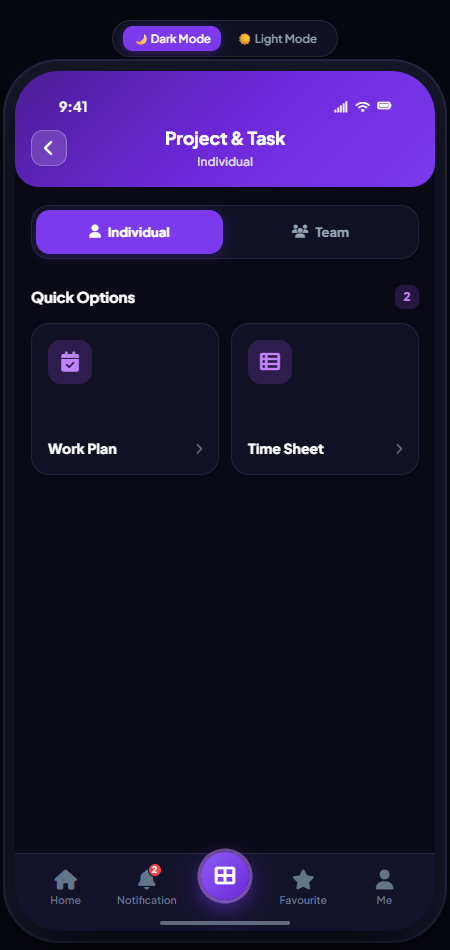
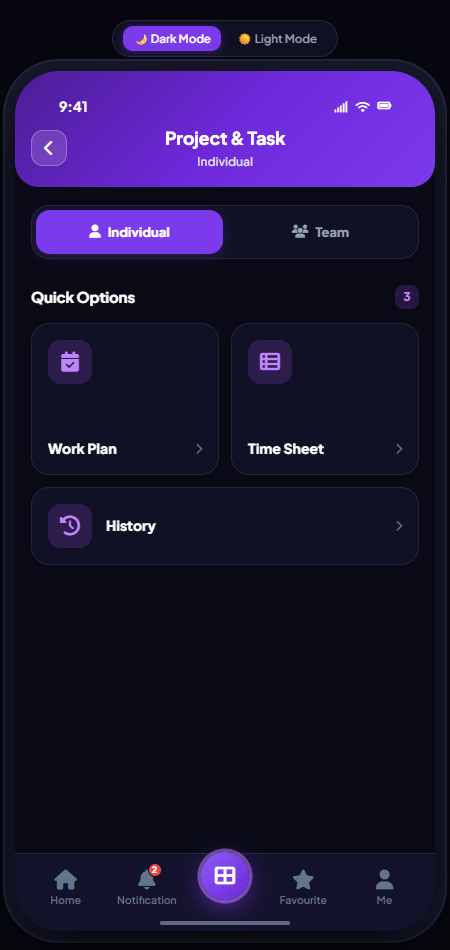
2/10:1148

Changed region(s): [[0.0933, 0.5189, 0.2178, 0.58], [0.2489, 0.5495, 0.3422, 0.58]]

diff --git a/leave.html b/leave.html
@@ -8956,6 +8956,51 @@
       return HISTORY_LEAVE_DATA;
     }
 
+    function toHistoryISO(value, fallbackYear = 2026) {
+      const text = String(value || '').trim();
+      let match = text.match(/^(\d{4})-(\d{2})-(\d{2})$/);
+      if (match) return `${match[1]}-${match[2]}-${match[3]}`;
+      match = text.match(/^(\d{1,2})\/(\d{1,2})\/(\d{4})/);
+      if (match) return `${match[3]}-${String(match[2]).padStart(2, '0')}-${String(match[1]).padStart(2, '0')}`;
+      match = text.match(/^(\d{1,2})\s+([A-Za-z]{3,9})(?:\s+(\d{4}))?/);
+      if (!match) return '';
+      const months = ['jan', 'feb', 'mar', 'apr', 'may', 'jun', 'jul', 'aug', 'sep', 'oct', 'nov', 'dec'];
+      const month = months.indexOf(match[2].slice(0, 3).toLowerCase()) + 1;
+      if (!month) return '';
+      return `${match[3] || fallbackYear}-${String(month).padStart(2, '0')}-${String(match[1]).padStart(2, '0')}`;
+    }
+
+    function getHistoryItemDateRange(item) {
+      if (currentHistoryTab === 'offtime') {
+        const date = toHistoryISO(item.date);
+        return { start: date, end: date };
+      }
+      if (currentHistoryTab === 'credit') {
+        return {
+          start: toHistoryISO(item.effectiveDate),
+          end: toHistoryISO(item.expiryDate) || toHistoryISO(item.effectiveDate)
+        };
+      }
+      const text = String(item.dates || '');
+      const year = Number(text.match(/\b(20\d{2})\b/)?.[1]) || 2026;
+      const parts = text.split(/\s+-\s+/);
+      const start = toHistoryISO(parts[0], year);
+      return { start, end: toHistoryISO(parts[1], year) || start };
+    }
+
+    function clearHistoryFilterControls() {
+      const refInput = document.getElementById('modalHistoryRefInput');
+      const fromDate = document.getElementById('modalHistoryFromDate');
+      const toDate = document.getElementById('modalHistoryToDate');
+      const leaveType = document.getElementById('modalHistoryLeaveTypeSelect');
+      const status = document.getElementById('modalHistoryStatusSelect');
+      if (refInput) refInput.value = '';
+      if (fromDate) fromDate.value = '';
+      if (toDate) toDate.value = '';
+      if (leaveType) leaveType.value = 'all';
+      if (status) status.value = 'all';
+    }
+
     function updateHistoryHeaderTitle() {
       const headerTitle = document.getElementById('headerTitleText');
       if (!headerTitle) return;
@@ -8981,9 +9026,7 @@
       const activeEl = document.getElementById(activeTabId);
       if (activeEl) activeEl.classList.add('active');
 
-      // Reset filter modal inputs when switching tabs
-      const modalStatusSelect = document.getElementById('modalHistoryStatusSelect');
-      if (modalStatusSelect) modalStatusSelect.value = 'all';
+      clearHistoryFilterControls();
 
       // Update top header title based on active filter tab
       updateHistoryHeaderTitle();
@@ -9139,19 +9182,10 @@
       const toVal = document.getElementById('modalHistoryToDate')?.value || '';
       const leaveTypeVal = document.getElementById('modalHistoryLeaveTypeSelect')?.value || 'all';
       const statusVal = document.getElementById('modalHistoryStatusSelect')?.value || 'all';
-      const branchVal = document.getElementById('modalHistoryBranchSelect')?.value || 'all';
-      const deptVal = document.getElementById('modalHistoryDeptSelect')?.value || 'all';
-      const ccVal = document.getElementById('modalHistoryCostCenterSelect')?.value || 'all';
-      const jobVal = document.getElementById('modalHistoryJobSelect')?.value || 'all';
 
       const parts = [];
 
-      // 1. Keyword
       if (refVal) parts.push(`"${refVal}"`);
-      if (branchVal !== 'all') parts.push(branchVal);
-      if (deptVal !== 'all') parts.push(deptVal);
-      if (ccVal !== 'all') parts.push(ccVal);
-      if (jobVal !== 'all') parts.push(jobVal);
 
       // 2. Status
       if (currentHistoryTab !== 'offtime' && statusVal !== 'all') {
@@ -9207,14 +9241,19 @@
           if (itemType !== leaveTypeVal) return false;
         }
 
-        // Ref / Keyword filter
         if (refVal) {
-          const matchTitle = (item.title || '').toLowerCase().includes(refVal);
           const matchRef = (item.ref || '').toLowerCase().includes(refVal);
-          const matchReason = (item.reason || '').toLowerCase().includes(refVal);
-          const matchOffType = (item.offType || '').toLowerCase().includes(refVal);
-          if (!matchTitle && !matchRef && !matchReason && !matchOffType) return false;
+          if (currentHistoryTab === 'offtime') {
+            const keywordText = [item.ref, item.title, item.reason, item.offType].join(' ').toLowerCase();
+            if (!keywordText.includes(refVal)) return false;
+          } else if (!matchRef) {
+            return false;
+          }
         }
+
+        const itemRange = getHistoryItemDateRange(item);
+        if (fromVal && (!itemRange.end || itemRange.end < fromVal)) return false;
+        if (toVal && (!itemRange.start || itemRange.start > toVal)) return false;
 
         return true;
       });
@@ -9269,10 +9308,17 @@
       const refLabel = document.getElementById('modalHistoryRefLabel');
       const refInput = document.getElementById('modalHistoryRefInput');
       const leaveTypeGroup = document.getElementById('modalHistoryLeaveTypeGroup');
+      const statusGroup = document.getElementById('modalHistoryStatusGroup');
+      const isTimeOff = currentHistoryTab === 'offtime';
 
-      if (refLabel) refLabel.innerText = 'Search Keyword';
-      if (refInput) refInput.placeholder = 'Employee Number or Name';
-      if (leaveTypeGroup) leaveTypeGroup.style.display = (currentHistoryTab === 'leave' || currentHistoryTab === 'credit') ? 'block' : 'none';
+      if (refLabel) refLabel.innerText = isTimeOff ? 'Search Keyword' : 'Reference #';
+      if (refInput) {
+        refInput.placeholder = isTimeOff
+          ? 'e.g. Late Start, Outstation, OT...'
+          : currentHistoryTab === 'credit' ? 'e.g. CR-2026-0005' : 'e.g. LV-2026-0041';
+      }
+      if (leaveTypeGroup) leaveTypeGroup.style.display = isTimeOff ? 'none' : 'block';
+      if (statusGroup) statusGroup.style.display = isTimeOff ? 'none' : 'block';
 
       overlay.style.display = 'flex';
       setTimeout(() => {
@@ -9462,25 +9508,7 @@
     }
 
     function resetHistoryFilterModal() {
-      const refInput = document.getElementById('modalHistoryRefInput');
-      const fromDate = document.getElementById('modalHistoryFromDate');
-      const toDate = document.getElementById('modalHistoryToDate');
-      const leaveType = document.getElementById('modalHistoryLeaveTypeSelect');
-      const statusSelect = document.getElementById('modalHistoryStatusSelect');
-      const branchSelect = document.getElementById('modalHistoryBranchSelect');
-      const deptSelect = document.getElementById('modalHistoryDeptSelect');
-      const ccSelect = document.getElementById('modalHistoryCostCenterSelect');
-      const jobSelect = document.getElementById('modalHistoryJobSelect');
-
-      if (refInput) refInput.value = '';
-      if (fromDate) fromDate.value = '';
-      if (toDate) toDate.value = '';
-      if (leaveType) leaveType.value = 'all';
-      if (statusSelect) statusSelect.value = 'all';
-      if (branchSelect) branchSelect.value = 'all';
-      if (deptSelect) deptSelect.value = 'all';
-      if (ccSelect) ccSelect.value = 'all';
-      if (jobSelect) jobSelect.value = 'all';
+      clearHistoryFilterControls();
 
       renderHistoryCards();
       const summaryEl = document.getElementById('historyFilterSummaryText');
@@ -11716,17 +11744,37 @@
       </div>
 
       <!-- 1. Search Keyword -->
-      <div id="modalHistoryRefGroup" style="margin-bottom: 16px;">
+      <div id="modalHistoryRefGroup" data-history-filter-field style="margin-bottom: 16px;">
         <label id="modalHistoryRefLabel"
           style="font-size: 13px; font-weight: 700; color: var(--purple-text); margin-bottom: 8px; display: block;">
-          Search Keyword
+          Reference #
         </label>
-        <input type="text" id="modalHistoryRefInput" placeholder="Employee Number or Name"
+        <input type="text" id="modalHistoryRefInput" placeholder="e.g. LV-2026-0041"
           style="width: 100%; padding: 14px 16px; border-radius: 16px; background: var(--bg-input); border: 1px solid var(--border-subtle); color: var(--text-primary); font-size: 13.5px; font-weight: 700; outline: none; box-sizing: border-box;">
       </div>
 
+      <!-- 2. Date Range -->
+      <div id="modalHistoryDateGroup" data-history-filter-field style="display: grid; grid-template-columns: minmax(0, 1fr) minmax(0, 1fr); gap: 12px; margin-bottom: 16px;">
+        <div>
+          <label id="modalHistoryFromLabel" for="modalHistoryFromDate"
+            style="font-size: 13px; font-weight: 700; color: var(--purple-text); margin-bottom: 8px; display: block;">
+            Start Date
+          </label>
+          <input type="date" id="modalHistoryFromDate"
+            style="width: 100%; min-width: 0; padding: 13px 12px; border-radius: 16px; background: var(--bg-input); border: 1px solid var(--border-subtle); color: var(--text-primary); font-size: 13px; font-weight: 700; outline: none; box-sizing: border-box;">
+        </div>
+        <div>
+          <label id="modalHistoryToLabel" for="modalHistoryToDate"
+            style="font-size: 13px; font-weight: 700; color: var(--purple-text); margin-bottom: 8px; display: block;">
+            End Date
+          </label>
+          <input type="date" id="modalHistoryToDate"
+            style="width: 100%; min-width: 0; padding: 13px 12px; border-radius: 16px; background: var(--bg-input); border: 1px solid var(--border-subtle); color: var(--text-primary); font-size: 13px; font-weight: 700; outline: none; box-sizing: border-box;">
+        </div>
+      </div>
+
       <!-- 3. Branch Selector -->
-      <div id="modalHistoryBranchGroup" style="margin-bottom: 16px;">
+      <div id="modalHistoryBranchGroup" hidden style="display: none;">
         <label
           style="font-size: 13px; font-weight: 700; color: var(--purple-text); margin-bottom: 8px; display: block;">
           Branch
@@ -11747,7 +11795,7 @@
       </div>
 
       <!-- 4. Department Selector -->
-      <div id="modalHistoryDeptGroup" style="margin-bottom: 16px;">
+      <div id="modalHistoryDeptGroup" hidden style="display: none;">
         <label
           style="font-size: 13px; font-weight: 700; color: var(--purple-text); margin-bottom: 8px; display: block;">
           Department
@@ -11770,7 +11818,7 @@
       </div>
 
       <!-- 5. Cost Center Selector -->
-      <div id="modalHistoryCostCenterGroup" style="margin-bottom: 16px;">
+      <div id="modalHistoryCostCenterGroup" hidden style="display: none;">
         <label
           style="font-size: 13px; font-weight: 700; color: var(--purple-text); margin-bottom: 8px; display: block;">
           Cost Center
@@ -11791,7 +11839,7 @@
       </div>
 
       <!-- 6. Job / Position Selector -->
-      <div id="modalHistoryJobGroup" style="margin-bottom: 16px;">
+      <div id="modalHistoryJobGroup" hidden style="display: none;">
         <label
           style="font-size: 13px; font-weight: 700; color: var(--purple-text); margin-bottom: 8px; display: block;">
           Job
@@ -11814,7 +11862,7 @@
       </div>
 
       <!-- 6. Leave Type Selector -->
-      <div id="modalHistoryLeaveTypeGroup" style="margin-bottom: 24px;">
+      <div id="modalHistoryLeaveTypeGroup" data-history-filter-field style="margin-bottom: 16px;">
         <label
           style="font-size: 13px; font-weight: 700; color: var(--purple-text); margin-bottom: 8px; display: block;">
           Leave Type
@@ -11829,6 +11877,29 @@
             <option value="unpaid">🏖 Unpaid Leave</option>
             <option value="compassionate">🤝 Compassionate Leave</option>
             <option value="emergency">🚨 Emergency Leave</option>
+          </select>
+          <div
+            style="position: absolute; right: 16px; top: 50%; transform: translateY(-50%); pointer-events: none; color: var(--text-primary);">
+            <i class="fa-solid fa-chevron-down"></i>
+          </div>
+        </div>
+      </div>
+
+      <!-- 4. Status -->
+      <div id="modalHistoryStatusGroup" data-history-filter-field style="margin-bottom: 24px;">
+        <label for="modalHistoryStatusSelect"
+          style="font-size: 13px; font-weight: 700; color: var(--purple-text); margin-bottom: 8px; display: block;">
+          Status
+        </label>
+        <div style="position: relative;">
+          <select id="modalHistoryStatusSelect"
+            style="width: 100%; padding: 14px 16px; border-radius: 16px; background: var(--bg-input); border: 1px solid var(--border-subtle); color: var(--text-primary); font-size: 13.5px; font-weight: 700; outline: none; appearance: none; -webkit-appearance: none; cursor: pointer;">
+            <option value="all">All Status</option>
+            <option value="draft">Draft</option>
+            <option value="submitted">Submitted</option>
+            <option value="approved">Approved</option>
+            <option value="rejected">Rejected</option>
+            <option value="cancelled">Cancelled</option>
           </select>
           <div
             style="position: absolute; right: 16px; top: 50%; transform: translateY(-50%); pointer-events: none; color: var(--text-primary);">

diff --git a/modules/project-task/options/history.html b/modules/project-task/options/history.html
@@ -1,0 +1,41 @@
+<!DOCTYPE html>
+<html lang="en" data-theme="dark">
+<head>
+  <meta charset="UTF-8">
+  <meta name="viewport" content="width=device-width, initial-scale=1.0">
+  <title>PeopleHCM - Project &amp; Task History</title>
+  <link rel="preconnect" href="https://fonts.googleapis.com">
+  <link rel="preconnect" href="https://fonts.gstatic.com" crossorigin>
+  <link href="https://fonts.googleapis.com/css2?family=Plus+Jakarta+Sans:wght@400;500;600;700;800&display=swap" rel="stylesheet">
+  <link rel="stylesheet" href="https://cdnjs.cloudflare.com/ajax/libs/font-awesome/6.4.0/css/all.min.css">
+  <link rel="stylesheet" href="../../../css/theme.css">
+  <link rel="stylesheet" href="../../../css/app.css">
+  <link rel="stylesheet" href="../../../css/project-task.css">
+  <script src="../../../js/components.js"></script>
+  <script src="../../../js/app.js" defer></script>
+  <script src="../../../js/project-task/project-task-app.js" defer></script>
+</head>
+<body class="project-task-page">
+  <preview-top-bar active-page="project-task"></preview-top-bar>
+  <div class="phone-container">
+    <header class="project-header">
+      <phone-status-bar time="9:41"></phone-status-bar>
+      <div class="project-header-row">
+        <a class="project-back" href="../index.html?scope=individual" aria-label="Back to Project and Task"><i class="fa-solid fa-chevron-left" aria-hidden="true"></i></a>
+        <div class="project-header-title"><h1>History</h1></div>
+        <span aria-hidden="true"></span>
+      </div>
+    </header>
+    <main class="main-content project-task-content">
+      <div class="project-option-empty">
+        <span class="project-option-icon"><i class="fa-solid fa-clock-rotate-left" aria-hidden="true"></i></span>
+        <p class="project-option-status">Coming soon</p>
+      </div>
+    </main>
+    <phone-bottom-nav active="apps"></phone-bottom-nav>
+    <left-profile-drawer></left-profile-drawer>
+    <notification-sheet></notification-sheet>
+    <favourite-sheet></favourite-sheet>
+  </div>
+</body>
+</html>

diff --git a/modules/project-task/index.html b/modules/project-task/index.html
@@ -35,7 +35,7 @@
         <button type="button" class="project-scope-tab" id="projectTab-team" role="tab" aria-selected="false" aria-controls="projectPanel-team" tabindex="-1"><i class="fa-solid fa-users" aria-hidden="true"></i>Team</button>
       </div>
       <section class="project-scope-panel" id="projectPanel-individual" role="tabpanel" aria-labelledby="projectTab-individual">
-        <div class="project-options-heading"><h2>Quick Options</h2><span class="project-options-count" aria-label="2 options">2</span></div>
+        <div class="project-options-heading"><h2>Quick Options</h2><span class="project-options-count" aria-label="3 options">3</span></div>
         <div class="project-options-grid">
           <a class="project-option" href="options/work-plan.html">
             <span class="project-option-icon"><i class="fa-solid fa-calendar-check" aria-hidden="true"></i></span>
@@ -44,6 +44,10 @@
           <a class="project-option" href="options/time-sheet.html">
             <span class="project-option-icon"><i class="fa-solid fa-table-list" aria-hidden="true"></i></span>
             <span class="project-option-label"><span class="project-option-title">Time Sheet</span><i class="fa-solid fa-chevron-right" aria-hidden="true"></i></span>
+          </a>
+          <a class="project-option project-option-history" href="options/history.html">
+            <span class="project-option-icon"><i class="fa-solid fa-clock-rotate-left" aria-hidden="true"></i></span>
+            <span class="project-option-label"><span class="project-option-title">History</span><i class="fa-solid fa-chevron-right" aria-hidden="true"></i></span>
           </a>
         </div>
       </section>

diff --git a/css/project-task.css b/css/project-task.css
@@ -45,6 +45,9 @@
 .project-option-label { display: flex; align-items: center; justify-content: space-between; gap: 8px; }
 .project-option-title { font-size: 14px; font-weight: 800; line-height: 1.35; }
 .project-option-label > i { flex-shrink: 0; font-size: 11px; color: var(--text-caption); }
+.project-option-history { grid-column: 1 / -1; flex-direction: row; align-items: center; justify-content: flex-start; gap: 14px; min-height: 78px; }
+.project-option-history .project-option-icon { flex-shrink: 0; }
+.project-option-history .project-option-label { flex: 1; }
 @media (hover: hover) {
   .project-option:hover { background: var(--bg-card-hover); border-color: var(--purple-border); transform: translateY(-2px); }
   .project-back:hover { background: rgba(255, 255, 255, 0.24); }
